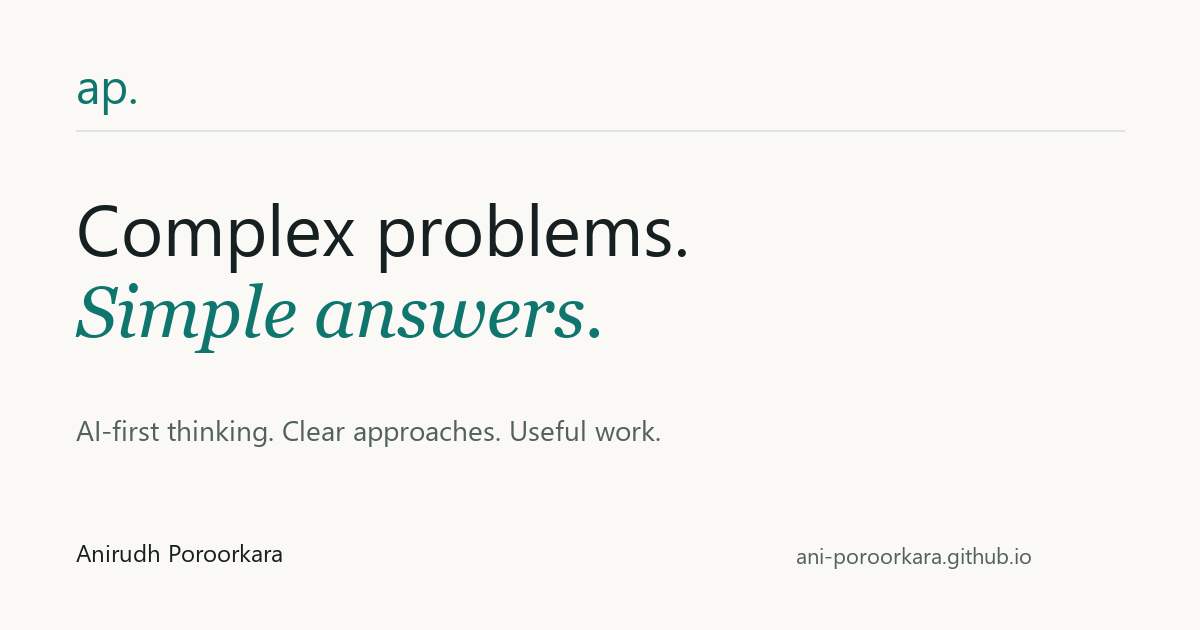
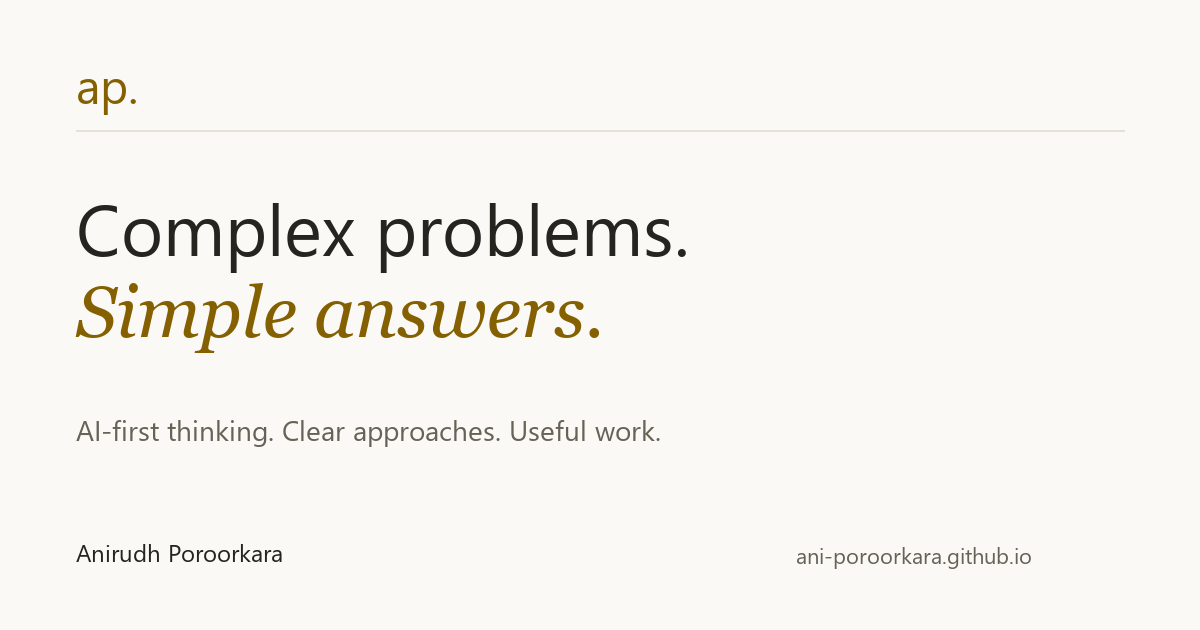
design: use yellow accents and restrained hero motion

Changed region(s): [[0.0617, 0.4524, 0.4933, 0.573], [0.0617, 0.1206, 0.1233, 0.181]]

diff --git a/src/styles/global.css b/src/styles/global.css
@@ -31,7 +31,7 @@ nav ul { list-style: none; padding: 0; margin: 0; display: flex; gap: 28px; }
 .site-header nav a { font-size: .85rem; color: var(--muted); padding: 8px 0; }
 .site-header nav a[aria-current] { color: var(--ink); border-bottom: 2px solid var(--accent); }
 a:hover { color: var(--accent); } .button:hover { color: var(--button-ink); background: var(--accent-hover); }
-.button { display: inline-flex; justify-content: center; gap: 20px; align-items: center; border: 1px solid var(--accent); background: var(--accent); color: var(--button-ink); border-radius: 6px; font-size: .85rem; font-weight: 550; padding: 14px 20px; transition: background 150ms; }
+.button { display: inline-flex; justify-content: center; gap: 20px; align-items: center; border: 1px solid var(--accent-fill); background: var(--accent-fill); color: var(--button-ink); border-radius: 6px; font-size: .85rem; font-weight: 550; padding: 14px 20px; transition: background 150ms, transform 180ms; }
 .button.secondary { background: transparent; color: var(--accent); }
 .text-link { font-size: .85rem; font-weight: 550; white-space: nowrap; }
 .hero { display: grid; grid-template-columns: 1.15fr 1fr; gap: 48px; align-items: center; padding: 88px 0 72px; }
@@ -40,7 +40,7 @@ a:hover { color: var(--accent); } .button:hover { color: var(--button-ink); back
 .hero-description { max-width: 410px; font-size: 1rem; color: var(--muted); margin-bottom: 28px; }
 .hero-actions { display: flex; align-items: center; gap: 24px; }
 .hero-footnote { display: flex; flex-wrap: wrap; gap: 16px; margin-top: 36px; font: .63rem ui-monospace, monospace; color: var(--muted); }
-.hero-footnote span+span::before { content: '/'; margin-right: 16px; color: #90a49d; }
+.hero-footnote span+span::before { content: '/'; margin-right: 16px; color: var(--muted); }
 .hero-visual { position: relative; min-height: 350px; display: grid; place-items: center; overflow: hidden; }
 .visual-grid { position: absolute; inset: 0; background-image: linear-gradient(var(--grid) 1px, transparent 1px), linear-gradient(90deg, var(--grid) 1px, transparent 1px); background-size: 32px 32px; mask-image: radial-gradient(ellipse, black 20%, transparent 70%); }
 .clarity-node { position: relative; z-index: 1; width: 260px; padding: 28px; background: var(--bg); border: 1px solid var(--line); box-shadow: 12px 12px 0 var(--shadow); border-radius: 8px; transform: rotate(-5deg); }
@@ -64,8 +64,8 @@ a:hover { color: var(--accent); } .button:hover { color: var(--button-ink); back
 .art-1 { background: var(--art-warm); } .art-2 { background: var(--art-cool); }
 .art-label { position: absolute; bottom: 14px; left: 16px; font: .6rem ui-monospace, monospace; color: var(--diagram-ink); }
 .diagram { display: flex; gap: 8px; position: relative; align-items: center; transform: rotate(-8deg); }
-.diagram span { width: 20px; height: 55px; border: 1px solid #658879; border-radius: 5px; background: color-mix(in srgb, var(--bg) 40%, transparent); }
-.diagram span:nth-child(2) { height: 90px; } .diagram span:nth-child(3) { height: 75px; background: #0f766e33; } .diagram span:nth-child(4) { height: 110px; }
+.diagram span { width: 20px; height: 55px; border: 1px solid var(--line); border-radius: 5px; background: color-mix(in srgb, var(--bg) 40%, transparent); }
+.diagram span:nth-child(2) { height: 90px; } .diagram span:nth-child(3) { height: 75px; background: color-mix(in srgb, var(--accent-fill) 20%, transparent); } .diagram span:nth-child(4) { height: 110px; }
 .diagram-1 { transform: rotate(14deg); gap: 0; } .diagram-1 span { width: 55px; height: 55px !important; border-radius: 50%; margin-left: -20px; border-color: #8e806b; } .diagram-1 span:nth-child(3) { background: #b6a38144; }
 .diagram-2 { transform: rotate(-15deg); display: grid; grid-template-columns: repeat(2, 45px); } .diagram-2 span { width: 45px; height: 45px !important; border-radius: 4px; border-color: #697e8e; }
 .card-top { display: flex; justify-content: space-between; align-items: center; } .card-top .eyebrow { margin: 0 0 8px; font-size: .62rem; }
@@ -95,3 +95,15 @@ a:hover { color: var(--accent); } .button:hover { color: var(--button-ink); back
 @media (prefers-reduced-motion: reduce) { *, *::before, *::after { scroll-behavior: auto !important; transition: none !important; animation: none !important; } }
 
 @media (max-width: 680px) { .header-actions { gap: 10px; } .site-header { gap: 10px; flex-wrap: wrap; } .site-header nav ul { gap: 12px; } }
+
+/* A short entrance and two quiet drifts; content remains visible without motion. */
+@media (prefers-reduced-motion: no-preference) {
+  .hero-copy { animation: hero-arrive 650ms ease-out both; }
+  .hero-visual { animation: hero-arrive 800ms ease-out both; }
+  .clarity-node { animation: clarity-drift 1800ms ease-in-out 800ms 2; }
+  .node-lines i:nth-child(3) { transform-origin: left; animation: line-grow 900ms ease-out 450ms both; }
+  .button:hover { transform: translateY(-2px); }
+}
+@keyframes hero-arrive { from { opacity: .35; transform: translateY(10px); } to { opacity: 1; transform: translateY(0); } }
+@keyframes clarity-drift { 0%, 100% { transform: translateY(0) rotate(-5deg); } 50% { transform: translateY(-5px) rotate(-4deg); } }
+@keyframes line-grow { from { transform: scaleX(.2); } to { transform: scaleX(1); } }

diff --git a/src/styles/tokens.css b/src/styles/tokens.css
@@ -1,17 +1,17 @@
 :root {
-  --bg: #faf9f6; --ink: #172021; --accent: #0f766e; --muted: #52615e; --border: #dee5e1;
-  --surface: #e7eeea; --surface-soft: #f0f3ef; --button-ink: #fff; --accent-hover: #0b5e58;
-  --art: #e8eeea; --art-warm: #eee9e0; --art-cool: #e5ebef; --diagram-ink: #43534e;
-  --line: #a4bbb2; --line-soft: #dce7e1; --shadow: #e7eeeb; --grid: #dee5e170;
+  --bg: #faf9f6; --ink: #25241f; --accent: #856000; --muted: #666256; --border: #e5e1d6;
+  --accent-fill: #f2cc4d; --surface: #f0ece1; --surface-soft: #f4f1e8; --button-ink: #211c0f; --accent-hover: #e9bb2e;
+  --art: #f3ecd6; --art-warm: #eee9df; --art-cool: #eae8e2; --diagram-ink: #5e5743;
+  --line: #bcb18f; --line-soft: #e5dcc4; --shadow: #eee8d9; --grid: #ddd5bf70;
   color-scheme: light;
   --page: 1120px; --reading: 720px; --serif: Georgia, 'Times New Roman', serif;
   font-family: system-ui, -apple-system, BlinkMacSystemFont, 'Segoe UI', sans-serif;
   color: var(--ink); background: var(--bg); font-synthesis: none;
 }
 :root[data-theme='dark'] {
-  --bg: #111918; --ink: #edf3ef; --accent: #79d5c4; --muted: #a9bbb4; --border: #31443e;
-  --surface: #1c2b26; --surface-soft: #192420; --button-ink: #10221d; --accent-hover: #a4e4d7;
-  --art: #20362c; --art-warm: #362f25; --art-cool: #25333e; --diagram-ink: #c1d4ca;
-  --line: #6a9583; --line-soft: #385447; --shadow: #21342c; --grid: #31443e70;
+  --bg: #171714; --ink: #f4f1e8; --accent: #f2cc4d; --muted: #bcb8a9; --border: #3b392f;
+  --surface: #29271f; --surface-soft: #22221b; --button-ink: #211c0f; --accent-hover: #ffe078;
+  --art: #343023; --art-warm: #302c23; --art-cool: #2b2b25; --diagram-ink: #d6cdb6;
+  --line: #8b805c; --line-soft: #49432e; --shadow: #302c1e; --grid: #3b392f70;
   color-scheme: dark;
 }

diff --git a/docs/operations/progress.md b/docs/operations/progress.md
@@ -46,4 +46,8 @@ Next: owner editor sign-in/App authorization; current résumé facts/PDF; authen
 Added a keyboard-accessible header switch, system preference default, saved light/dark choice across pages and reloads, storage-blocked fallback, and dark surface/button colours. Head initialization avoids a light flash; printing retains a light palette. This supersedes the original no-theme-toggle scope constraint at the owner's request.
 Verification: 48 unit/28 output checks and complete verify pass. Browser toggle/keyboard/reload/navigation and360px mobile header checked; no page overflow. Preview remains at http://127.0.0.1:4321/.
 
+## Owner-requested yellow accent and motion — 2026-10-04
+
+Replaced green with warm yellow buttons/highlights and charcoal/cream neutrals. Light-mode text uses a darker gold for contrast. Hero has a brief entrance, a growing line and two subtle card drifts that finish within4.4seconds; no endless motion. All motion is disabled for reduced-motion preference. This supersedes the original colour/motion choices.
+
 Paused heartbeat `continue-website-9-0v-implementation`, every five hours. Owner can enable it at the first usage exhaustion. It resumes from this checkpoint and does not override account limits.
